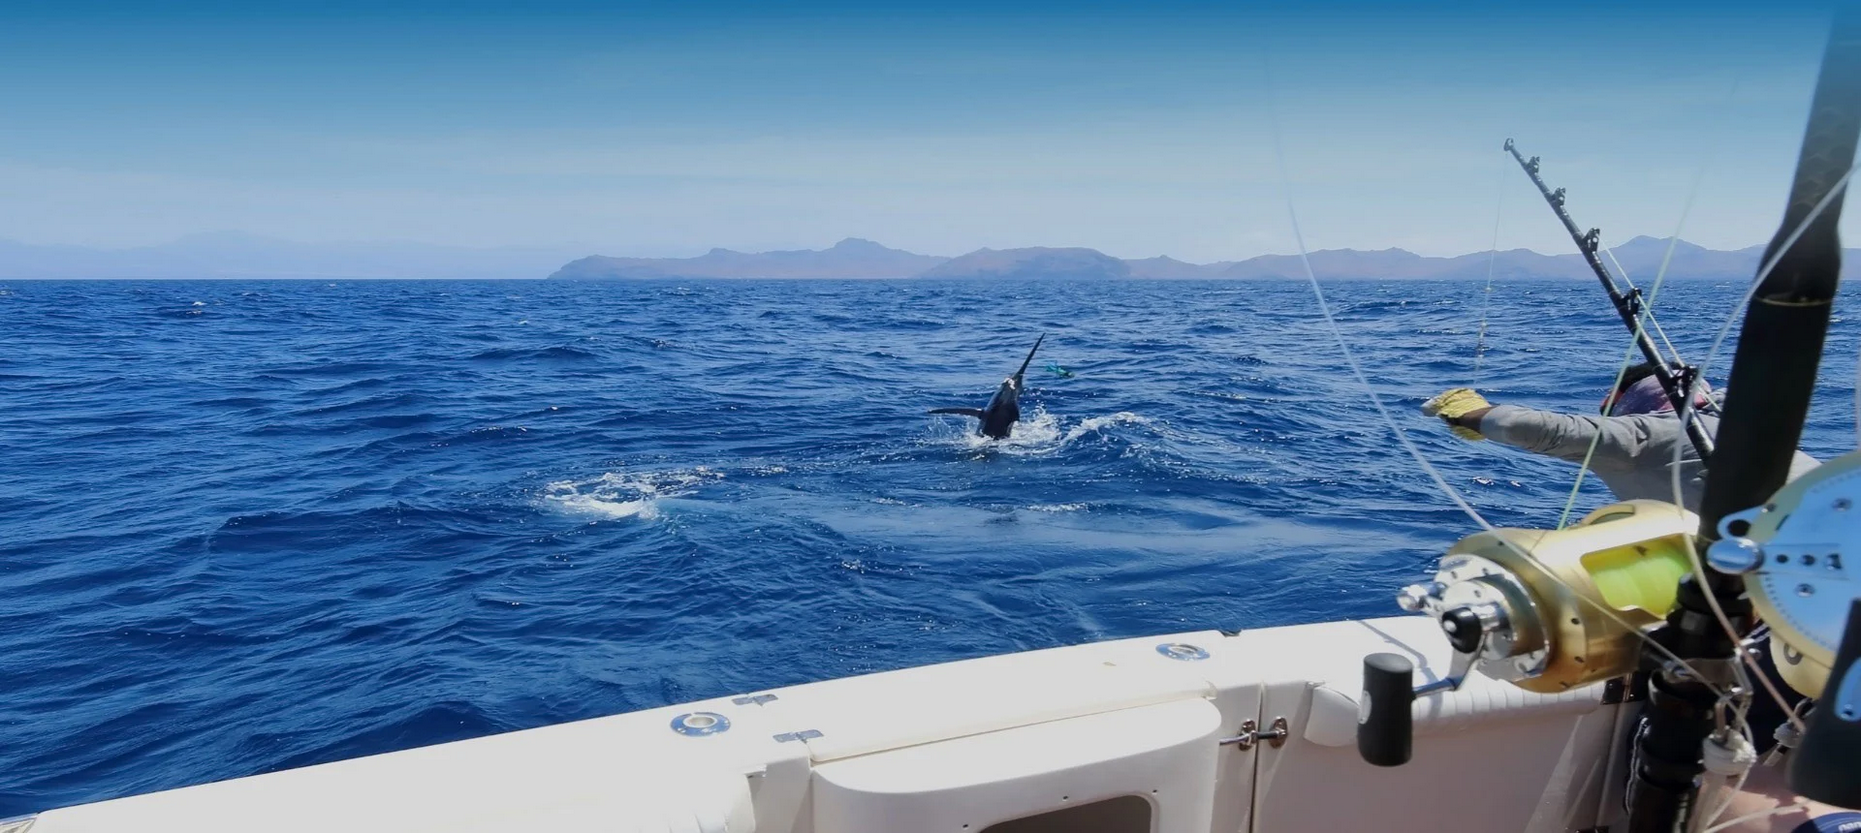
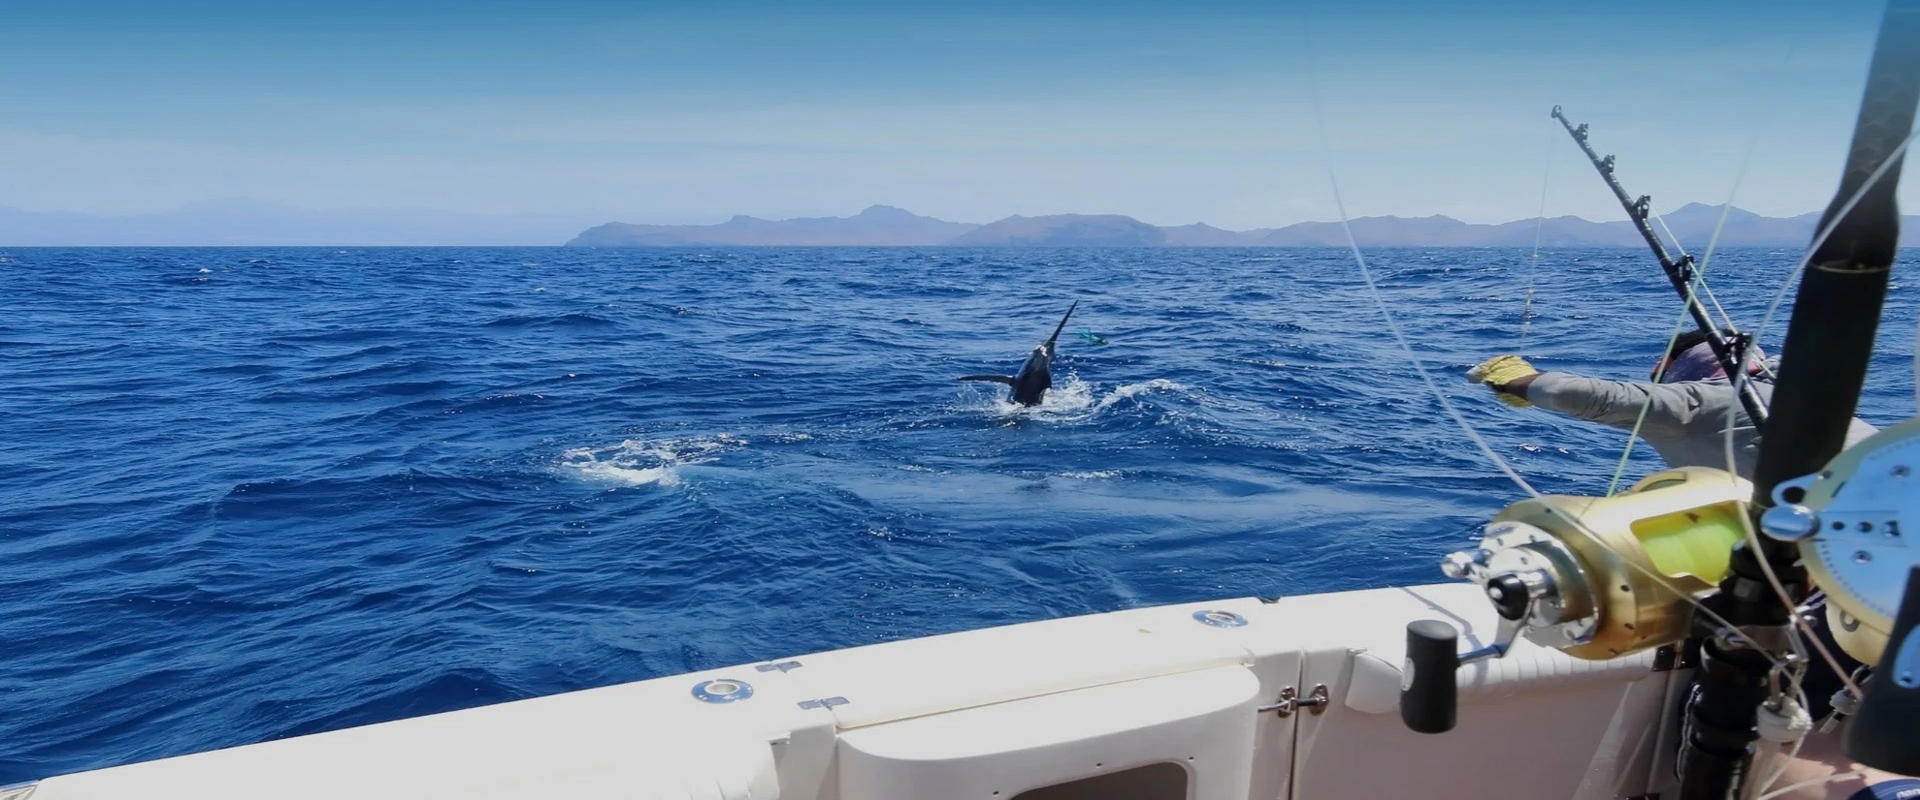
Update

diff --git a/assets/css/PP-homepage.css b/assets/css/PP-homepage.css
@@ -1,96 +1,102 @@
 .title-beer-second{
-    margin-top: 20px;
-    margin-bottom: 15px;
+    margin-top: 7px;
 }
 .title-beer-second-schedule{
     text-align: center;
     font-size: x-large;
-    color: black;
     margin-bottom: 15px;
 }
 .schedule-pub-second p{
     font-size: 13px;
     text-align: center;
 }
+.logo-wave1 {
+  width: 220px;
+  height: auto;
+}
+.logo-wave2 {
+  width: 220px;
+  height: auto;
+}
 .P1 {
-    transform: translate(23px, 5px) rotate(-45deg);
+    transform: translate(23px, -55px) rotate(-45deg);
     color: transparent;
 	animation: blur 10s ease-out infinite;
 	-webkit-animation: blur 10s ease-out infinite;
 }
 .ê {
-    transform: translate(13px, -20px) rotate(-25deg);
+    transform: translate(13px, -80px) rotate(-25deg);
     color: transparent;
 	animation: blur 10s ease-out infinite;
 	-webkit-animation: blur 10s ease-out infinite;
 }
 .c {
-    transform: translate(6px, -35px) rotate(-15deg);
+    transform: translate(6px, -95px) rotate(-15deg);
     color: transparent;
 	animation: blur 10s ease-out infinite;
 	-webkit-animation: blur 10s ease-out infinite;
 }
 .h {
-    transform: translate(3px, -43px) rotate(-5deg);
+    transform: translate(3px, -103px) rotate(-5deg);
     color: transparent;
 	animation: blur 10s ease-out infinite;
 	-webkit-animation: blur 10s ease-out infinite;
 }
 .e{
-    transform: translate(2px, -38px) rotate(5deg);
+    transform: translate(2px, -98px) rotate(5deg);
     color: transparent;
 	animation: blur 10s ease-out infinite;
 	-webkit-animation: blur 10s ease-out infinite;
 }
 .esp1 {
-    transform: translate(1px, -40px) rotate(-5deg);
+    transform: translate(1px, -100px) rotate(-5deg);
     visibility: hidden;
 }
 .P2 {
-    transform: translate(0px, -20px) rotate(10deg);
+    transform: translate(0px, -80px) rotate(10deg);
     color: transparent;
 	animation: blur 10s ease-out infinite;
 	-webkit-animation: blur 10s ease-out infinite;
 }
 .a {
-    transform: translate(-7px, -10px) rotate(7deg);
+    transform: translate(-7px, -70px) rotate(7deg);
     color: transparent;
 	animation: blur 10s ease-out infinite;
 	-webkit-animation: blur 10s ease-out infinite;
 }
 .s1 {
-    transform: translate(-7px, 0px) rotate(3deg);
+    transform: translate(-7px, -60px) rotate(3deg);
     color: transparent;
 	animation: blur 10s ease-out infinite;
 	-webkit-animation: blur 10s ease-out infinite;
 }
 .s2 {
-    transform: translate(-7px, 0px) rotate(-3deg);
+    transform: translate(-7px, -60px) rotate(-3deg);
     color: transparent;
 	animation: blur 10s ease-out infinite;
 	-webkit-animation: blur 10s ease-out infinite;
 }
 .i {
-    transform: translate(-6px, -10px) rotate(-20deg);
+    transform: translate(-6px, -70px) rotate(-20deg);
     color: transparent;
 	animation: blur 10s ease-out infinite;
 	-webkit-animation: blur 10s ease-out infinite;
 }
 .o {
-    transform: translate(-8px, -27px) rotate(-25deg);
+    transform: translate(-8px, -87px) rotate(-25deg);
     color: transparent;
 	animation: blur 10s ease-out infinite;
 	-webkit-animation: blur 10s ease-out infinite;
 }
 .n {
-    transform: translate(-13px, -50px) rotate(-20deg);
+    transform: translate(-13px, -110px) rotate(-20deg);
     color: transparent;
 	animation: blur 10s ease-out infinite;
 	-webkit-animation: blur 10s ease-out infinite;
 }
 .title-beer-second span {
     display: inline-block;
-    color: rgb(27,42,55);
+    color: #22a3e3;
     font-size: 65px;
 }
 span:nth-child(1) {
@@ -161,6 +167,56 @@ span:nth-child(13) {
 	95%		{text-shadow:  0 0 90px #fff;}
 	100%	{text-shadow:  0 0 100px #fff; opacity:0;}
 }
+.pic-ctn {
+    width: 1920px;
+    height: 800px;
+    position: relative;
+  }
+  
+  @keyframes display {
+    0% {
+      transform: translateX(1920px);
+      opacity: 0;
+    }
+    10% {
+      transform: translateX(0);
+      opacity: 1;
+    }
+    20% {
+      transform: translateX(0);
+      opacity: 1;
+    }
+    30% {
+      transform: translateX(-200px);
+      opacity: 0;
+    }
+    100% {
+      transform: translateX(-200px);
+      opacity: 0;
+    }
+  }
+  
+  .pic-ctn > img {
+    position: absolute;
+    top: 0;
+    opacity: 0;
+    animation: display 18s infinite;
+  }
+  img:nth-child(2) {
+    animation-delay: 3s;
+  }
+  img:nth-child(3) {
+    animation-delay: 6s;
+  }
+  img:nth-child(4) {
+    animation-delay: 9s;
+  }
+  img:nth-child(5) {
+    animation-delay: 12s;
+  }
+  img:nth-child(6) {
+    animation-delay: 15s;
+  }
 .txt-pub{
     color: black;
     font-size: 14px;
@@ -188,7 +244,7 @@ span:nth-child(13) {
     .schedule-pub-second p{font-size: 9px}
 }
 .title-beer-pub{
-    background-color: rgb(156,175,161);
+    background-color: #c2eef8;
 }
 .photo-desc img{
     width: 220px;
@@ -212,6 +268,7 @@ span:nth-child(13) {
   
 .title-beer-pub {
     grid-area: title-beer-pub;
+    height: 180px;
 }
 .photo-pub { 
     text-align: center;

diff --git a/assets/css/PP-find-us.css b/assets/css/PP-find-us.css
@@ -8,7 +8,7 @@
     width: 400px;
     height: 280px;
     margin: auto;
-    margin-top: 15px;
+    margin-top: 40px;
     background-color: #cccccc;
     padding: 30px 15px 10px 15px;
     border-radius: 10px;
@@ -26,7 +26,7 @@
 }
 .map{
     margin: auto;
-    margin-top: 15px;
+    margin-top: 40px;
     border: 2px solid black;
     border-radius: 10px;
 }

diff --git a/assets/css/PP-style.css b/assets/css/PP-style.css
@@ -1,6 +1,6 @@
 body,html{
     width: 100%;
-    font-family: ;
+    font-family: 'Trebuchet MS', 'Lucida Sans Unicode', 'Lucida Grande', 'Lucida Sans', Arial, sans-serif ;
 }
 
 html{

diff --git a/assets/css/PP-resa.css b/assets/css/PP-resa.css
@@ -1,5 +1,5 @@
 .container_resa{
-    margin-top: 10px;
+    margin-top: 40px;
 }
 .reservation{
     color: black;

diff --git a/assets/css/PP-contact.css b/assets/css/PP-contact.css
@@ -1,5 +1,5 @@
 .container_contact{
-    margin-top: 30px;
+    margin-top: 60px;
 }
 .contact{
     color: black;

diff --git a/templates/PP-homepage.php b/templates/PP-homepage.php
@@ -4,7 +4,8 @@ require('PP-header.php');
 ?>
 <div class="container-homepage">
     <div class="title-beer-pub">
-        <div class="title-beer-second" style="text-align: center; padding-top: 10px; font-size: 80px;">
+        <div class="title-beer-second" style="text-align: center; font-size: 80px;">
+            <img class="logo-wave1" src="..\assets\img\Fish\vague_gauche-sf.png" alt="img-left-wave">
             <span class="P1">P</span>
             <span class="ê">ê</span>
             <span class="c">c</span>
@@ -18,22 +19,16 @@ require('PP-header.php');
             <span class="i">i</span>
             <span class="o">o</span>
             <span class="n">n</span>
+            <img class="logo-wave2" src="..\assets\img\Fish\vague_droite-sf.png" alt="img-right-wave">
         </div>
     </div>
-    <div class="carousel-wrapper">
-        <div class="carousel-container">
-            <div class="carousel">
-                <div class="image-"></div>
-                <div class="image-2"></div>
-                <div class="image-3"></div>
-            </div>
-        </div>
-    </div>
-    <!-- <div class="photo-pub">
-        <img src="../assets/img/Background/Peche-mouche2.png" alt="imghome">
-    </div> -->
-    <div class="photo-desc">
-        <img src="../assets/img/beer/shutterstock_113954089-beer.jpg" alt="imgbeer">
+    <div class="pic-ctn">
+        <img src="..\assets\img\background\brochet2.jpg" alt="img-brochet2" alt="" class="pic">
+        <img src="..\assets\img\background\coregone.jpg" alt="img-coregone" alt="" class="pic">
+        <img src="..\assets\img\background\chasse-brochet.jpg" alt="img-chasse-brochet" alt="" class="pic">
+        <img src="..\assets\img\background\espadon.png" alt="img-espadon" alt="" class="pic">
+        <img src="..\assets\img\background\brochet3.png" alt="img-brochet3" alt="" class="pic">
+        <img src="..\assets\img\background\peche-mouche.jpg" alt="img-peche-mouche" alt="" class="pic">
     </div>
     <div class="desc-pub">
         <div class="txt-pub">

diff --git a/templates/PP-contact.php b/templates/PP-contact.php
@@ -4,7 +4,7 @@ require('PP-header.php');
 ?>
 <main>
     <div class="photo-pub">
-        <img src="..\assets\img\background\bg3.jpg" alt="image_bar1">
+        <img src="..\assets\img\background\Peche-mouche.jpg" alt="img-peche-mouche">
     </div>
     <div class="container_contact">
         <div class="contact">

diff --git a/templates/PP-find-us.php b/templates/PP-find-us.php
@@ -4,7 +4,7 @@ require('PP-header.php');
 ?>
 <main>
     <div class="photo-pub">
-        <img src="..\assets\img\background\bg3.jpg" alt="image_bar1">
+        <img src="..\assets\img\background\Peche-mouche.jpg" alt="img-peche-mouche">
     </div>
     <div class="container-find-us">
         <div class="find-us">

diff --git a/templates/PP-resa.php b/templates/PP-resa.php
@@ -5,7 +5,7 @@ require('PP-header.php');
 
 <main>
     <div class="photo-pub">
-        <img src="..\assets\img\background\bg3.jpg" alt="image_bar1">
+        <img src="..\assets\img\background\Peche-mouche.jpg" alt="img-peche-mouche">
     </div>
     <div class="container_resa">
         <div class="reservation">
